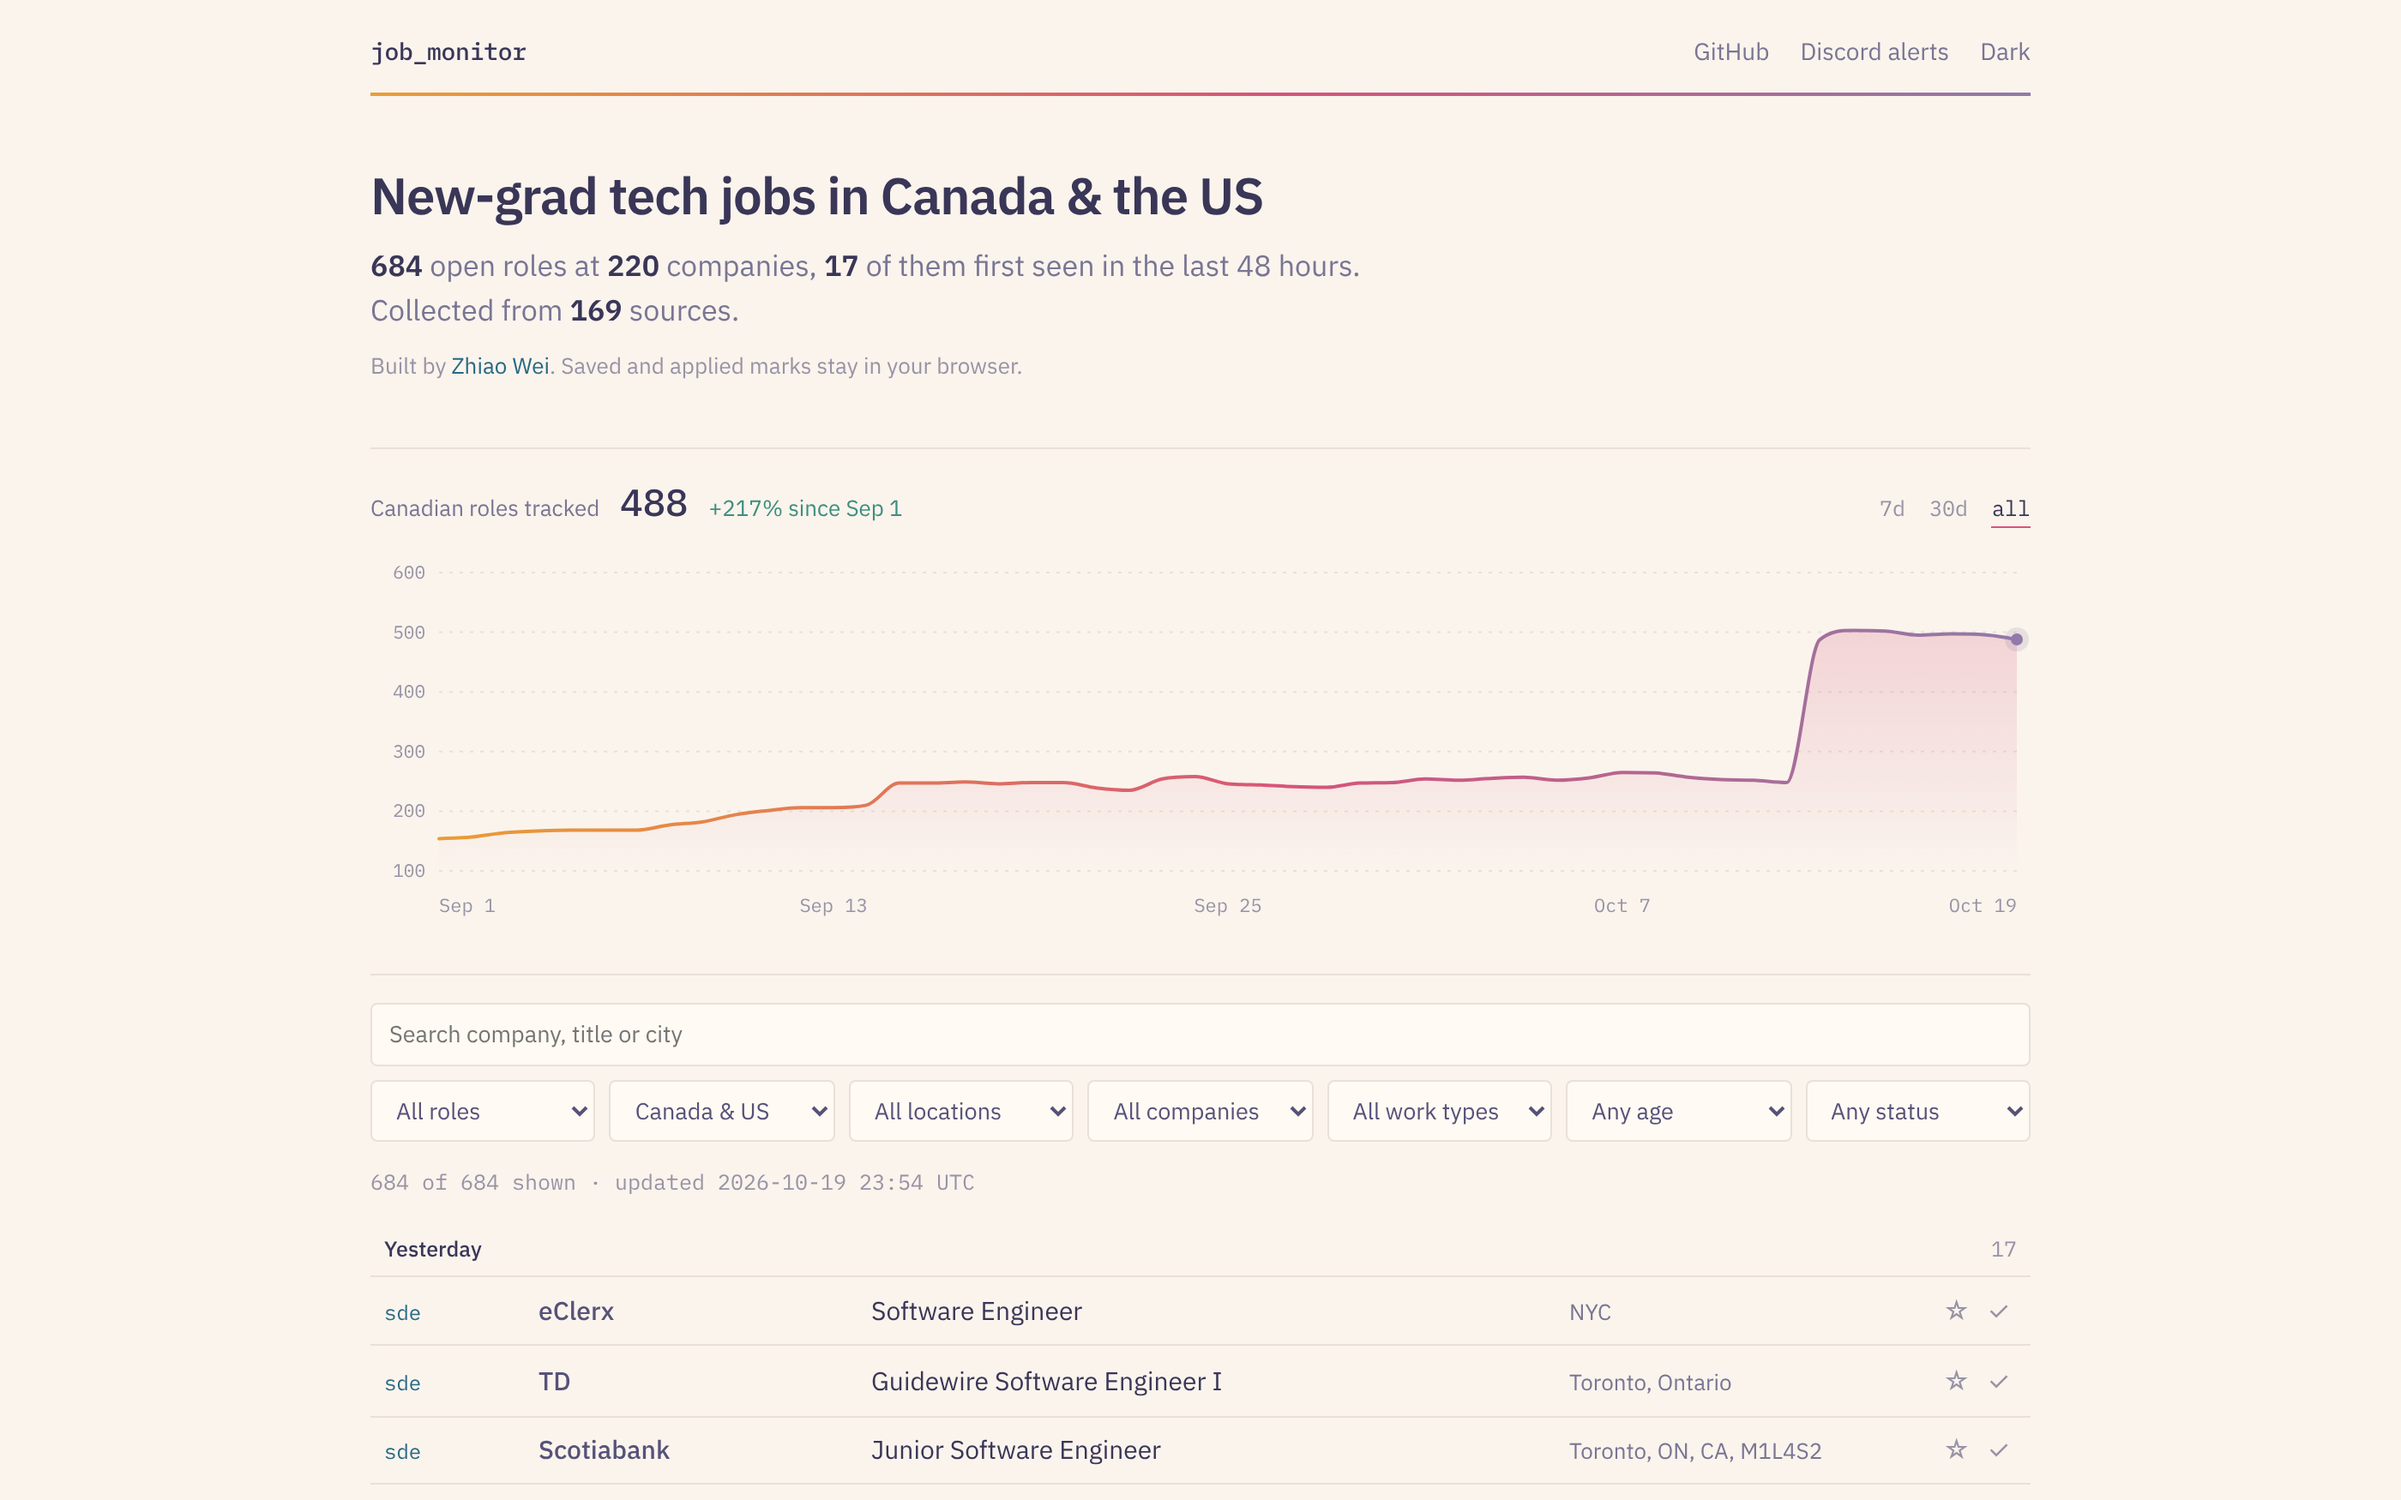
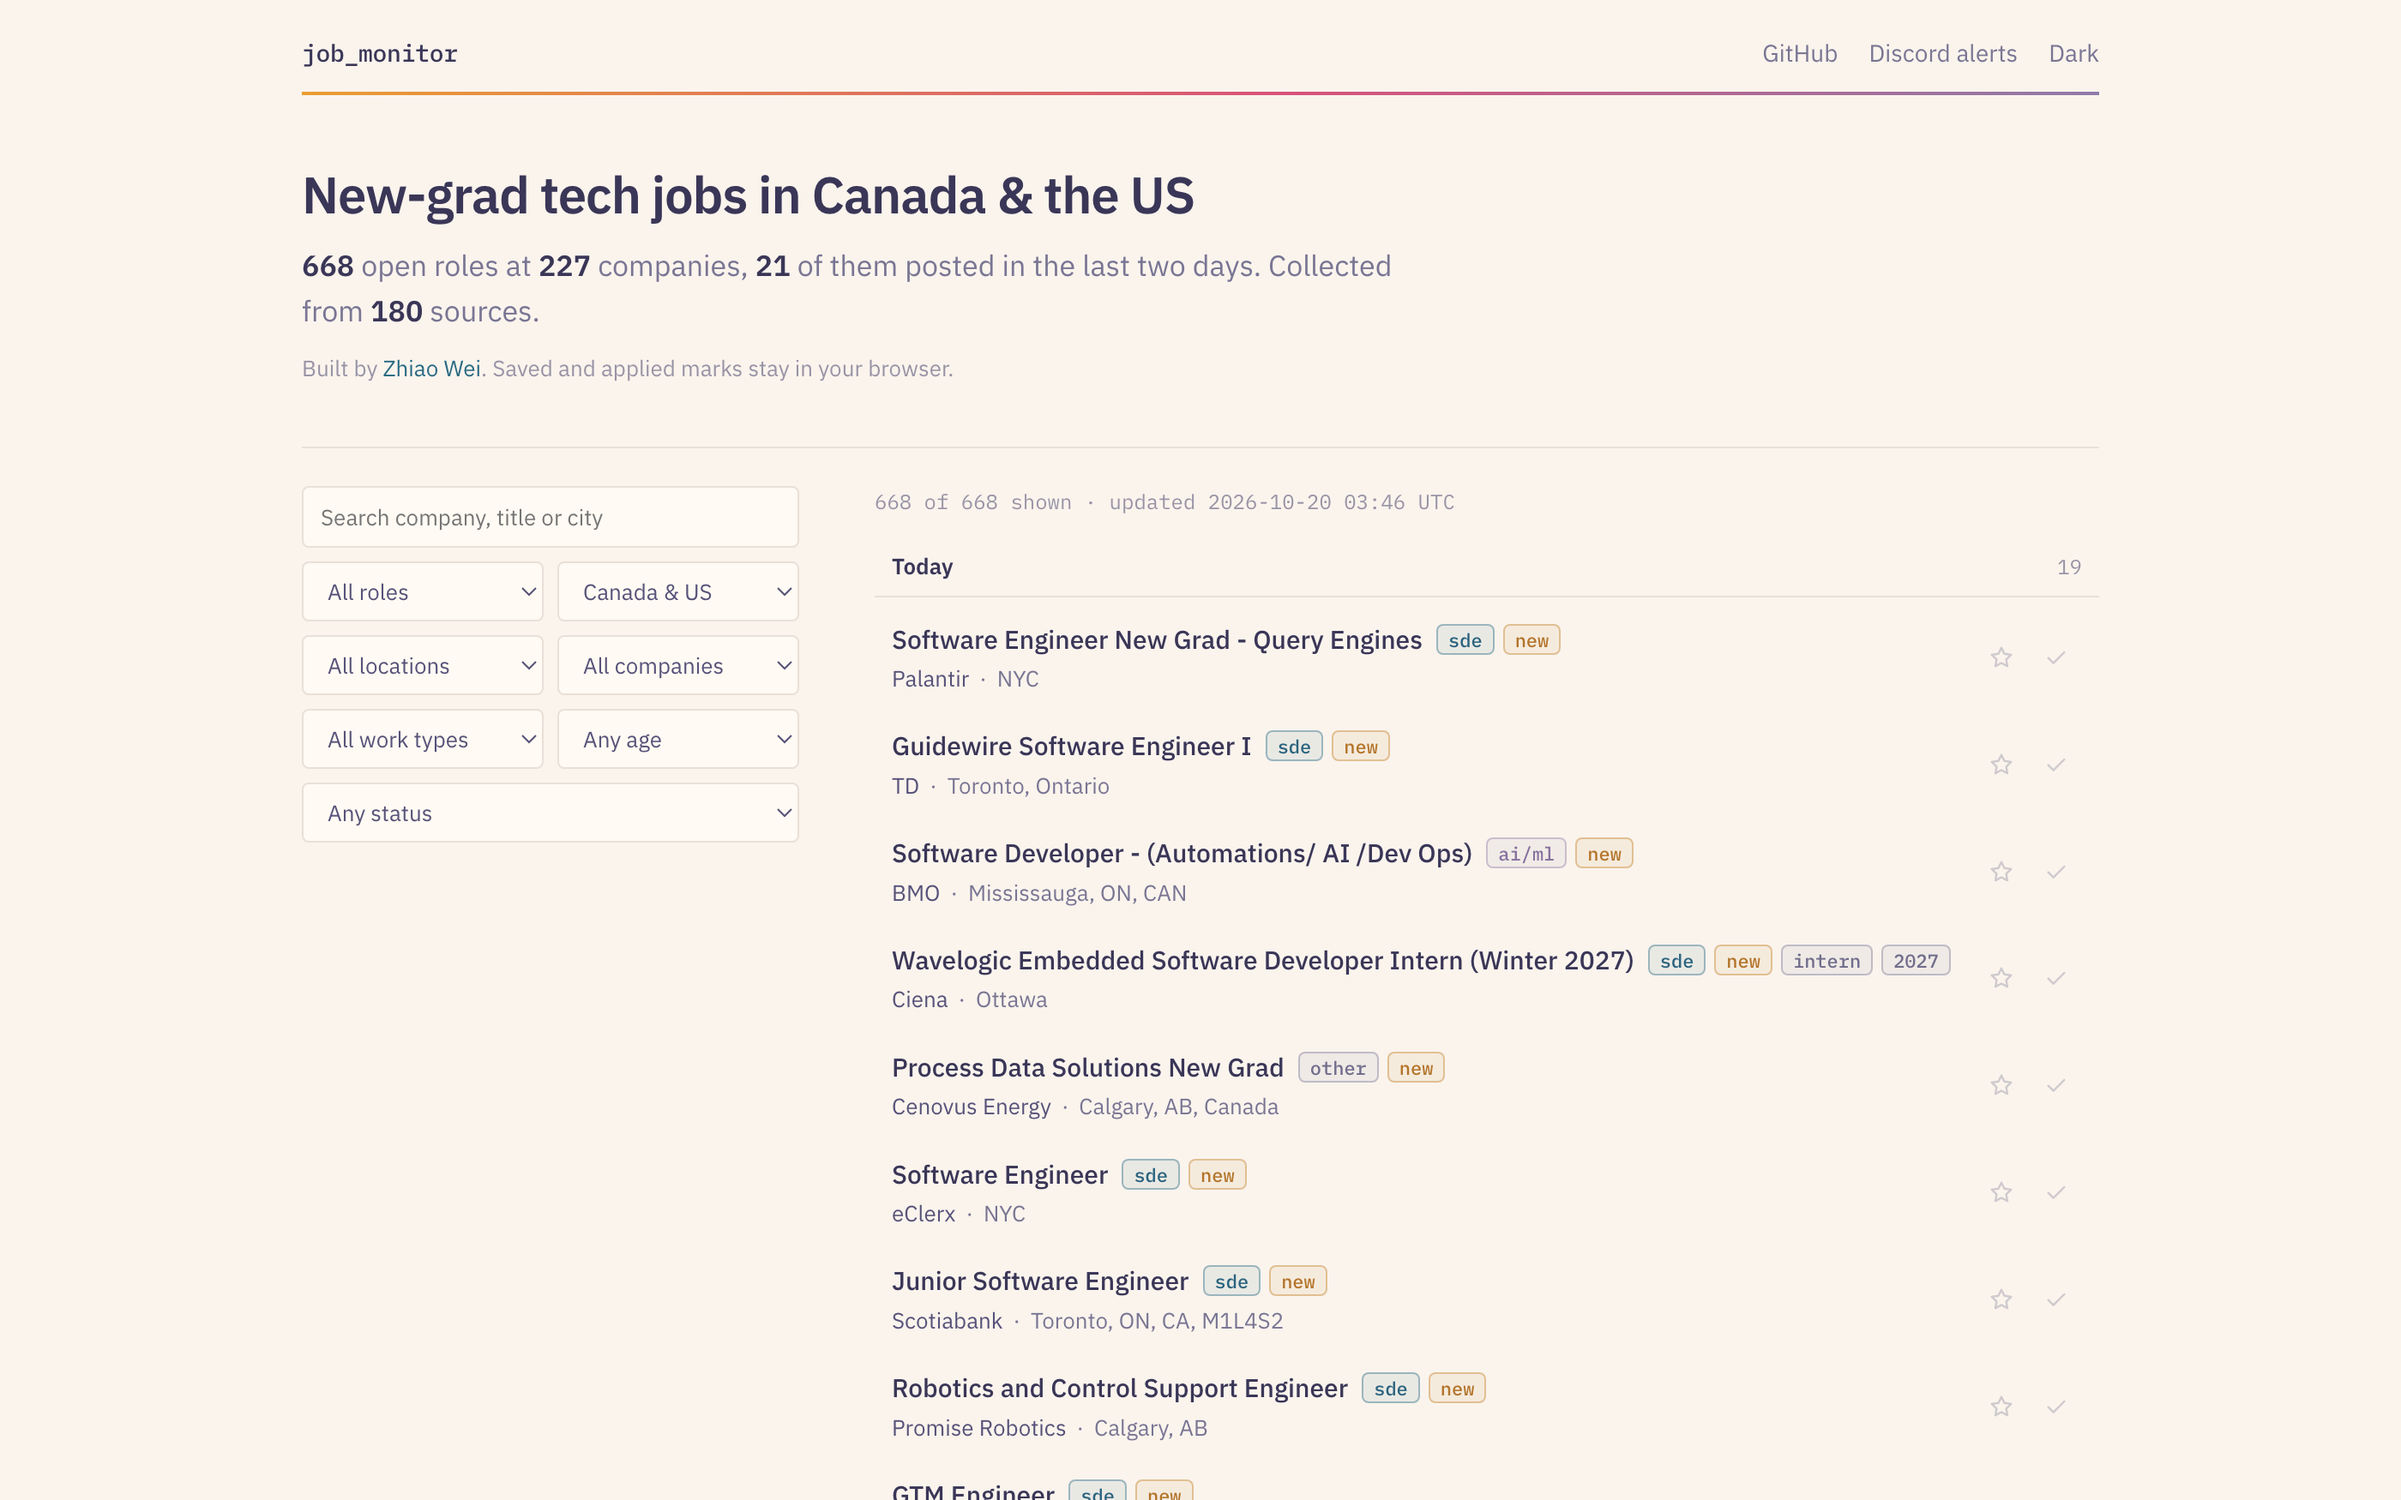
Job Monitor: screenshots and caption for the two-column dashboard
The trend chart is gone, filters sit in a side column and postings are
grouped by the day they were posted (Job_Monitor e3cf39c).

diff --git a/_projects/job_monitor.md b/_projects/job_monitor.md
@@ -16,7 +16,7 @@ links:
 
 {% include figure.liquid loading="eager" path="assets/img/projects/job_monitor.png" title="Job Monitor dashboard" class="img-fluid rounded z-depth-1" %}
 
-<div class="caption">The live dashboard: a one-line summary, Canadian roles tracked over time, then search and filters above the newest postings, grouped by the day they were first seen.</div>
+<div class="caption">The live dashboard: a one-line summary, filters in a side column, and the newest postings grouped by the day they were posted.</div>
 
 ### The problem
 
